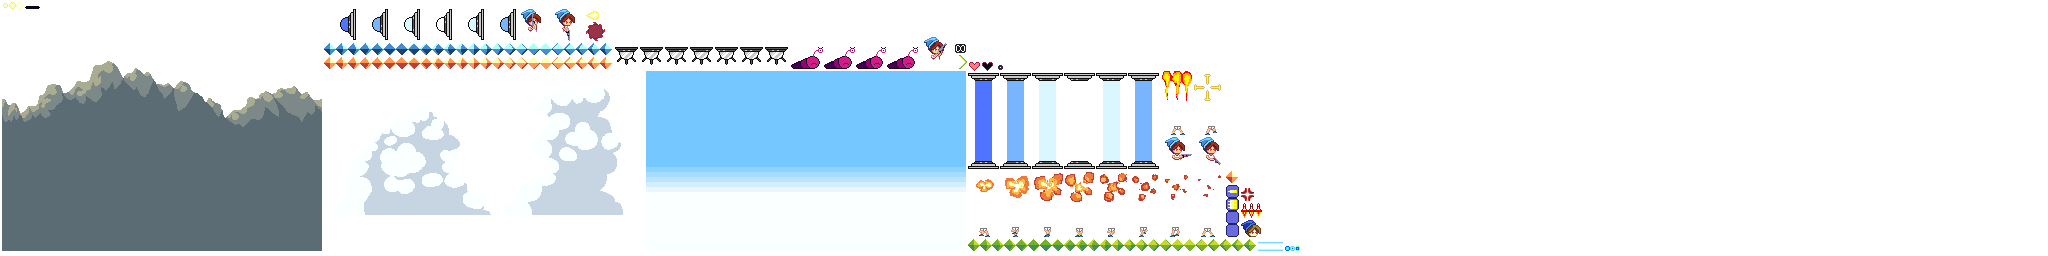
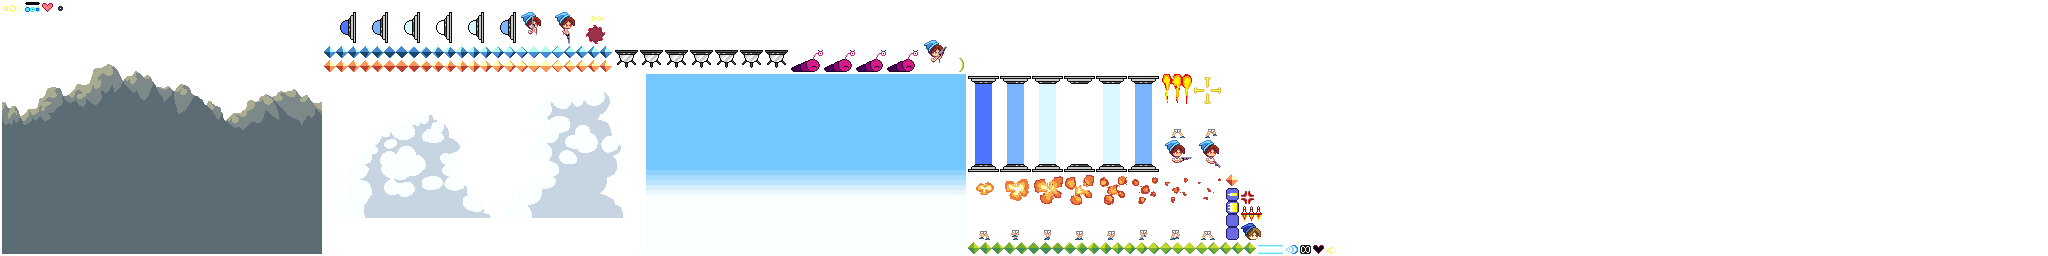
new bullets, added bullet damage, balanced bullet damage and enemy health

diff --git a/app/screen/test_screen.rb b/app/screen/test_screen.rb
@@ -14,6 +14,7 @@ class TestScreen < Screen
     @player.x = @tiled_map.p.x
     @player.y = @tiled_map.p.y
     @player.set_gun Gun::Pistol.new add_bullet
+    @player.money = args.state.money || 0
 
     parse_map
 
@@ -50,28 +51,9 @@ class TestScreen < Screen
     }
   end
 
-  private def update_cam
-    @cam.look_at (@player.x.clamp WIDTH / 2, @tiled_map.map_width - WIDTH / 2), (@player.y.clamp HEIGHT / 2, @tiled_map.map_height - HEIGHT / 2), 0.08
-    # follow mouse
-    # midx = (@player.x + mx) / 2
-    # midy = (@player.y + my) / 2
-    # dx = midx - @player.x
-    # dy = midy - @player.y
-    # dist = Math.sqrt dx**2 + dy**2
-    # if dist > 50
-    #   scale = 50 / dist
-    #   midx = @player.x + dx * scale
-    #   midy = @player.y + dy * scale
-    # end
-    # @cam.look_at [midx, WIDTH / 2].max, HEIGHT / 2, 0.07
-  end
-
   def update args
     @start_time = Time.now
     # handle key input
-    if args.inputs.keyboard.key_down.r || @player.health <= 0
-      args.state.sm.replace TestScreen.new args
-    end
     @player.left = args.inputs.left
     @player.right = args.inputs.right
     @player.drop if args.inputs.down
@@ -87,6 +69,9 @@ class TestScreen < Screen
         @player.set_gun Gun::Spreader.new add_bullet
       elsif args.inputs.keyboard.key_down.five
         @player.set_gun Gun::Beam.new add_bullet
+      end
+      if args.inputs.keyboard.key_down.r || @player.health <= 0
+        args.state.sm.replace TestScreen.new args
       end
     end
 
@@ -139,7 +124,7 @@ class TestScreen < Screen
     @bullet_update_time = Time.now - start_time
 
     # cam follow player
-    update_cam
+    @cam.look_at (@player.x.clamp WIDTH / 2, @tiled_map.map_width - WIDTH / 2), (@player.y.clamp HEIGHT / 2, @tiled_map.map_height - HEIGHT / 2), 0.08
 
     # update player
     @player.look_at mx, my
@@ -151,16 +136,22 @@ class TestScreen < Screen
     @cursor.x = mx
     @cursor.y = my
     @cursor.update
+
+    # end level
+    if @player.x > @tiled_map.map_width
+      args.state.money = @player.money
+      args.state.sm.replace TestScreen.new args
+    end
   end
 
   def render args
     Utils.clear_screen args, 20, 20, 40, 255
-    # @ui_cam.render_image args, (args.state.assets.find "sky"), WIDTH / 2, HEIGHT / 2, WIDTH, HEIGHT
-    # @cloudx = (@cloudx + 0.02) % WIDTH
-    # @ui_cam.render_image args, (args.state.assets.find "clouds"), @cloudx + WIDTH, HEIGHT / 2 - 10, WIDTH, HEIGHT
-    # @ui_cam.render_image args, (args.state.assets.find "clouds"), @cloudx, HEIGHT / 2 - 10, WIDTH, HEIGHT
-    # @ui_cam.render_image args, (args.state.assets.find "clouds"), @cloudx - WIDTH, HEIGHT / 2 - 10, WIDTH, HEIGHT
-    # @ui_cam.render_image args, (args.state.assets.find "mountains"), WIDTH / 2, HEIGHT / 2 - 30, WIDTH, HEIGHT
+    @ui_cam.render_image args, (args.state.assets.find "sky"), WIDTH / 2, HEIGHT / 2, WIDTH, HEIGHT
+    @cloudx = (@cloudx + 0.04) % WIDTH
+    @ui_cam.render_image args, (args.state.assets.find "clouds"), @cloudx + WIDTH, HEIGHT / 2 - 10, WIDTH, HEIGHT
+    @ui_cam.render_image args, (args.state.assets.find "clouds"), @cloudx, HEIGHT / 2 - 10, WIDTH, HEIGHT
+    @ui_cam.render_image args, (args.state.assets.find "clouds"), @cloudx - WIDTH, HEIGHT / 2 - 10, WIDTH, HEIGHT
+    @ui_cam.render_image args, (args.state.assets.find "mountains"), WIDTH / 2, HEIGHT / 2 - 30 - @cam.y / 20, WIDTH, HEIGHT
 
     @player.render args, @cam
     @enemies.each { |e| e.render args, @cam }

diff --git a/app/entity/bullet.rb b/app/entity/bullet.rb
@@ -1,5 +1,7 @@
 class Bullet < Entity
 
+  attr_reader :damage
+
   def initialize args, path, x = 0, y = 0, dx = 0, dy = 0, deg = 0
     super()
     @x = x
@@ -7,9 +9,24 @@ class Bullet < Entity
     @dx = dx
     @dy = dy
     @render_deg = deg
-    @time = 0
     set_image args, path
     @cw = @ch = [@w, @h].min
+
+    @time = case path
+    when "pistol" then 10
+    when "machinegun" then 25
+    when "triplet" then 40
+    when "wave" then 25
+    when "beam" then 10
+    end
+
+    @damage = case path
+    when "pistol" then 12
+    when "machinegun" then 16
+    when "triplet" then 18
+    when "wave" then 20
+    when "beam" then 3
+    end
   end
 
   def update walls
@@ -22,10 +39,10 @@ class Bullet < Entity
 
     @x += @dx
     @y += @dy
-    @time += 1
+    @time -= 1
 
-    if @time > 20
-      # @remove = true
+    if @time < 0
+      @remove = true
       return
     end
   end

diff --git a/app/entity/entity.rb b/app/entity/entity.rb
@@ -40,6 +40,7 @@ class Entity
     @flash_time = 0
     @health = 0
     @hflip = false
+    @wg = nil
 	end
 
   def set_image args, region
@@ -76,7 +77,7 @@ class Entity
     if !@right && @dx > 0 then @dx = (@dx - FRICTION).clamp(0, @dx) end
   end
 
-  def apply_physics walls, has_friction = true, check_collision = true
+  def apply_physics walls, has_friction = true, check_collision = true, bounce = false
     # gravity
     @dy = (@dy - @gravity).clamp(-MAX_FALL_SPEED, 1000)
 
@@ -96,7 +97,7 @@ class Entity
       else
         @x = @wx.x + @wx.w / 2 - @cxo + @cw / 2
       end
-      @dx = 0
+      @dx = bounce ? -@dx : 0
     end
 
     # check collision y
@@ -114,7 +115,7 @@ class Entity
         @wg = @wy
         @on_ground = true
       end
-      @dy = 0
+      @dy = bounce ? -@dy : 0
     else
       @wg = nil
     end

diff --git a/app/entity/gem.rb b/app/entity/gem.rb
@@ -72,11 +72,11 @@ class Gem < Entity
     end
 
     @dx = 0 if @dx.abs < 0.0001 
-    @dy = 0 if @dy.abs < 0.0001
+    # @dy = 0 if @dy.abs < 0.0001
     @dx == 0 && @dy == 0 ? @in_place_count += 1 : @in_place_count = 0
     should_check_collision = @player == nil && !@frozen && @dx != 0 && @dy != 0 && @cx == nil && @cy == nil && @in_place_count < 5
     if @dx != 0 && @dy != 0
-      apply_physics walls, false, should_check_collision
+      apply_physics walls, false, should_check_collision, true
     end
     @x += @dx
     @y += @dy

diff --git a/app/weapons/gun.rb b/app/weapons/gun.rb
@@ -73,13 +73,13 @@ end
 
 class Triplet < Gun  
   def initialize add_bullet
-    super add_bullet, 30, 4, 3
+    super add_bullet, 30, 4, 3, bullet: "triplet"
   end
 end
 
 class MachineGun < Gun
   def initialize add_bullet
-    super add_bullet, 6, spread: 20
+    super add_bullet, 6, spread: 20, bullet: "machinegun"
   end
 end
 

diff --git a/app/entity/player.rb b/app/entity/player.rb
@@ -1,6 +1,7 @@
 class Player < Entity
 
-  attr_reader :money, :gun
+  attr_accessor :money
+  attr_reader :gun
 
   INVULNERABILITY_TIME = 2 * 60
 
@@ -47,7 +48,7 @@ class Player < Entity
     # check input
     check_input if !@stagger
 
-    # check collision
+    # apply physics
     apply_physics walls, !@stagger
 
     # move

diff --git a/app/entity/enemies/slimer.rb b/app/entity/enemies/slimer.rb
@@ -7,7 +7,7 @@ class Slimer < Enemy
     @cw = @ch = 15
     @dx = -@max_speed
     @left = true
-    @max_health = @health = 5
+    @max_health = @health = 50
     @gems = [ { type:"amber"}, { type:"amber"}, { type:"emerald"} ]
     @cw = 32
     @ch = 10

diff --git a/app/entity/enemies/yoyo.rb b/app/entity/enemies/yoyo.rb
@@ -8,7 +8,7 @@ class Yoyo < Enemy
     @cw = @ch = 15
     @dx = -@max_speed
     @left = true
-    @max_health = @health = 5
+    @max_health = @health = 70
     @gems = [ { type:"sapphire"}, { type:"amber"}, { type:"amber"} ]
 
     @attacking = false

diff --git a/app/entity/enemies/enemy.rb b/app/entity/enemies/enemy.rb
@@ -10,7 +10,7 @@ class Enemy < Entity
       next if b.remove
       if Utils.overlaps? b.crect, crect
         b.remove = true
-        @health -= 1
+        @health -= b.damage
         @flash = true
         @flash_time = 5
         if @health <= 0
